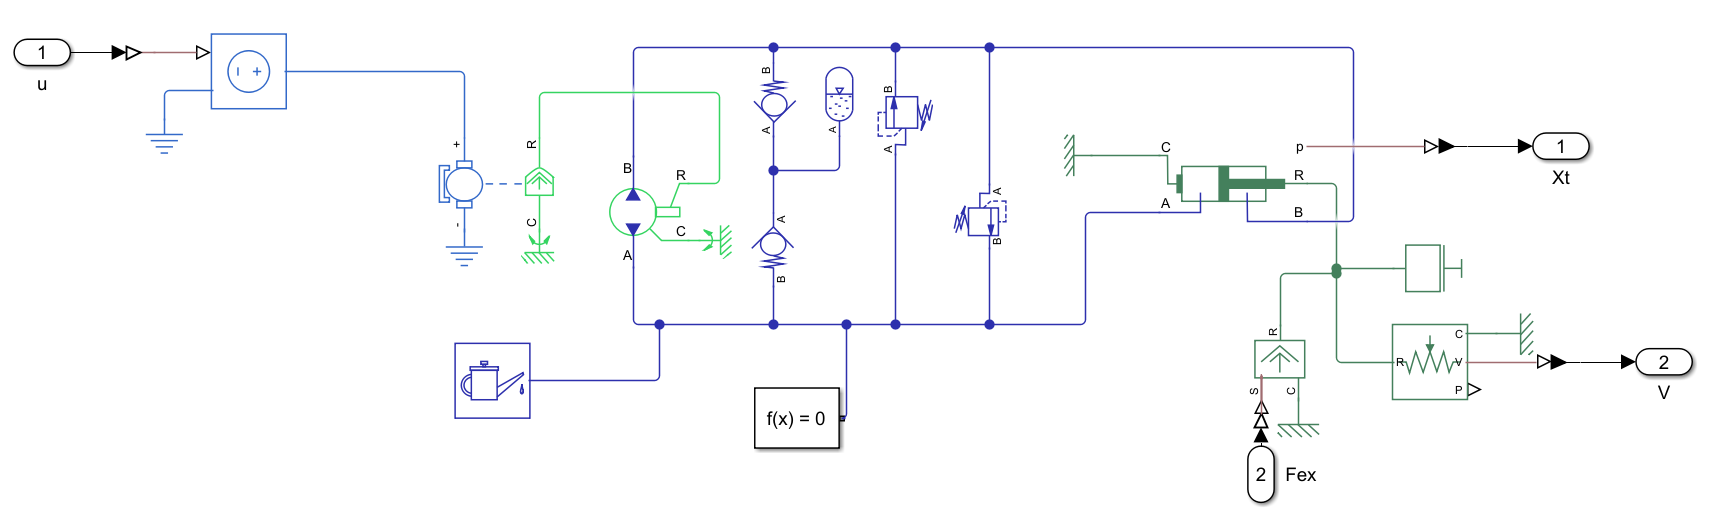
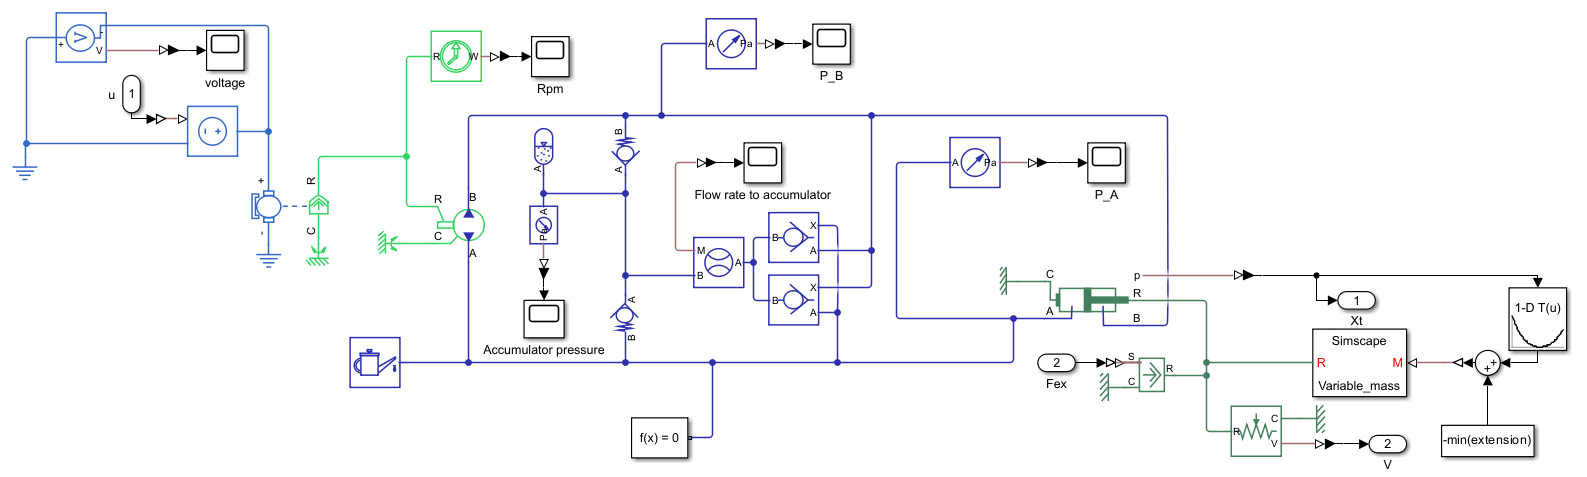
Fixed outdated equations and initialization parameters

diff --git a/Report/Report.tex b/Report/Report.tex
@@ -351,6 +351,8 @@
 		\label{fig:simulinkactuatormodel}
 	\end{figure}
 	
+	Considering the multitude of effects taken into account, the equations are expected to be stiff and \textit{ode15s} solver is used for that reason.
+	
 	\subsubsection{Motor Dynamics}
 	The DC Motor acts as the primary driver for the pump. The electrical and mechanical governing equations for the motor are expressed as follows:
 	\begin{equation}
@@ -363,50 +365,132 @@
 		T_{e} = K_{t}i
 	\end{equation}
 	\begin{equation}
-		T_{e} = J\dot{\omega} + T_{f} + T_{l}
+		T_{e} = J\dot{\omega} + \lambda\omega + T_{l}
 	\end{equation}
-	where $U_c$ is the command voltage, $i$ is the current, $E$ is the back electromotive force, $T_e$ is the electromagnetic torque, $\omega$ is the rotational speed, and $J$ represents the total inertia of the motor and pump.
+	where $U_c$ is the command voltage, $i$ is the current, $E$ is the back electromotive force, $T_e$ is the electromagnetic torque, $\omega$ is the rotational speed, $J$ represents the total inertia of the motor and pump, $\lambda$ is the viscous rotor damping coefficient, and $T_l$ is the load torque.
+	
+	\begin{figure}[H]
+		\centering
+		\includegraphics[width=0.6\linewidth]{Media/Simulink_DCmotor_model}
+		\caption{DC Motor model in Simulink. The voltage is taken from the controller and fed into the motor. The voltage sensor is connected in parallel to the voltage source.}
+		\label{fig:simulinkdcmotormodel}
+	\end{figure}
 	
 	\subsubsection{Pump Flow Equations}
-	The flow equations for the pump outlet ($Q_1$) and entry ($Q_2$) account for the pump displacement ($D$), internal leakage ($K_{ilp}$), and external leakage ($K_{elp}$) relative to the accumulator pressure ($P_{ac}$):
+	Unlike theoretical models that separate internal and external leakage to a case drain, the Simscape Isothermal Liquid pump block models a lumped analytical leakage flow based on the prescribed nominal operating parameters. The theoretical ideal volumetric flow ($Q_{ideal}$) is defined by the geometric displacement ($D$) and the rotational speed ($\omega$):
 	\begin{equation}
-		Q_{1} = D\omega - K_{ilp}(P_{1} - P_{2}) - K_{elp}(P_{1} - P_{ac})
-	\end{equation}
-	\begin{equation}
-		Q_{2} = D\omega - K_{ilp}(P_{1} - P_{2}) + K_{elp}(P_{2} - P_{ac})
+		Q_{ideal} = D\omega
 	\end{equation}
 	
-	\subsubsection{Refeeding Circuit and Accumulator}
-	To maintain the closed-circuit integrity of the EHA, a refeeding circuit comprising an accumulator and check valves is utilized. The accumulator pressure ($P_{ac}$) is modeled using a polytropic gas equation to account for fluid compression and expansion:
+	The volumetric leakage flow ($Q_{leak}$) is correlated with the pressure differential across the pump ($\Delta P = P_1 - P_2$) using an analytical Hagen-Poiseuille coefficient ($K$):
 	\begin{equation}
-		P_{ac} = \frac{P_{aci} V_{gasi}^k}{(V_{gasi} - \int Q_{ac} dt)^k}
+		Q_{leak} = K \Delta P
 	\end{equation}
-	where $P_{aci}$ is the initial accumulator pressure, $V_{gasi}$ is the initial gas volume, $k$ is the polytropic exponent, and $Q_{ac}$ is the net flow rate into the accumulator. The check valves manage the flow between the accumulator and the main hydraulic lines based on the pressure differentials $(P_1 - P_{ac})$ and $(P_2 - P_{ac})$.
+	
+	This coefficient is determined internally by the solver using the baseline volumetric efficiency ($\eta_v$) evaluated at the nominal pressure gain ($\Delta P_{nom}$) and nominal shaft speed ($\omega_{nom}$):
+	\begin{equation}
+		K = \frac{D \omega_{nom} (1 - \eta_v)}{\Delta P_{nom}}
+	\end{equation}
+	
+	Consequently, the actual flow equations for the pump outlet ($Q_1$) and entry ($Q_2$) in a standard forward-pumping mode are defined by subtracting the analytically derived leakage from the ideal flow:
+	\begin{equation}
+		Q_{1} = Q_{ideal} - Q_{leak}
+	\end{equation}
+	\begin{equation}
+		Q_{2} = Q_{ideal} - Q_{leak}
+	\end{equation}
+	
+	\begin{figure}[H]
+		\centering
+		\includegraphics[width=0.4\linewidth]{Media/Simulink_Pump_model}
+		\caption{Pump model in Simulink. The RPMs fed into the pump originate from the DC motor and are measured by a sensor.}
+		\label{fig:simulinkpumpmodel}
+	\end{figure}
+	
+	\subsubsection{Refeeding Circuit and Asymmetrical Flow Compensation}
+	Unlike a symmetrical actuator, the F-22's asymmetrical hydraulic jack requires a specialized refeeding circuit to handle unequal flow rates between the bore and annular chambers. When the actuator retracts, the return flow from the larger bore chamber exceeds the intake flow of the rod chamber, requiring a path to vent the excess fluid to prevent hydraulic lock. Conversely, extension requires make-up fluid from the reservoir to prevent cavitation.
+	
+	To manage this, the circuit integrates two distinct valve assemblies connected to the central accumulator line:
+	
+	\begin{enumerate}
+		\item \textbf{Anti-Cavitation Check Valves:} Two standard check valves connect the accumulator to the main hydraulic lines. They open automatically to supply make-up fluid if the pressure in either main line ($P_1$ or $P_2$) drops below the accumulator pressure ($P_{ac}$):
+		\begin{equation}
+			Q_{ac \to 1} = f(P_{ac} - P_1) \quad \text{for} \quad P_1 < P_{ac}
+		\end{equation}
+		\begin{equation}
+			Q_{ac \to 2} = f(P_{ac} - P_2) \quad \text{for} \quad P_2 < P_{ac}
+		\end{equation}
+		
+		\item \textbf{Pilot-Operated Venting Valves:} To dump excess fluid during unbalanced operations, two pilot-operated check valves are cross-connected to the main lines. The high-pressure supply line acts as the pilot signal to open the check valve on the low-pressure return line.
+		\begin{itemize}
+			\item When $P_2$ is pressurized (retraction), it pilots the top valve open, allowing excess return fluid from Chamber A to flow through the valve into the accumulator ($Q_{1 \to ac}$).
+			\item When $P_1$ is pressurized (extension), it pilots the bottom valve open, allowing fluid from Chamber B to flow into the accumulator ($Q_{2 \to ac}$).
+		\end{itemize}
+	\end{enumerate}
+	
+	\begin{figure}[H]
+		\centering
+		\includegraphics[width=0.6\linewidth]{Media/Simulink_Refeeding_accumulator_model}
+		\caption{Both pipes filled with the fluid coming from the pump are connected to the refeeding circuit and the accumulator. At first, both lines are connected to check vales which later connect to the accumulator whose pressure is monitored by a sensor. Later both lines are connected to pilot-operated check valves which dump the excess fluid into the accumulator. This flow rate is monitored by a sensor.}
+		\label{fig:simulinkrefeedingaccumulatormodel}
+	\end{figure}
+	
+	\subsubsection{Accumulator Dynamics}
+	The net flow into the accumulator ($Q_{ac\_net}$) is determined by the sum of the vented fluid from the pilot-operated valves minus the make-up fluid supplied through the standard check valves:
+	\begin{equation}
+		Q_{ac\_net} = Q_{1 \to ac} + Q_{2 \to ac} - Q_{ac \to 1} - Q_{ac \to 2}
+	\end{equation}
+	
+	The accumulator pressure ($P_{ac}$) dynamically responds to this net flow. It is modeled using a polytropic gas equation to account for fluid compression and expansion:
+	\begin{equation}
+		P_{ac} = \frac{P_{aci} V_{gasi}^k}{(V_{gasi} - \int Q_{ac\_net} dt)^k}
+	\end{equation}
+	where $P_{aci}$ is the initial accumulator pressure, $V_{gasi}$ is the initial gas volume, and $k$ is the polytropic exponent.
 	
 	\subsubsection{Chamber Flow Equations}
-	To connect the fluid flow from the pump to the pressure acting on the piston, the flow continuity equations for the two working chambers of the hydraulic jack must be established. These equations account for the actuator's linear velocity, fluid compressibility, and internal leakage across the piston:
+	To connect the fluid flow from the pump to the pressure acting on the piston, the flow continuity equations for the two working chambers of the hydraulic jack must be established. Because the selected actuator is asymmetrical, these equations account for the distinct bore area ($A_A$) and annular area ($A_B$), as well as fluid compressibility:
 	\begin{equation}
-		Q_{1f} = A\dot{x}_{t} + \frac{V_{10} + Ax_{t}}{B}\dot{P}_{1} + K_{ilj}(P_{1} - P_{2})
+		Q_{1f} = A_{A}\dot{x}_{t} + \frac{V_{10} + A_{A}x_{t}}{B}\dot{P}_{1} + Q_{leak}
 	\end{equation}
 	\begin{equation}
-		Q_{2f} = A\dot{x}_{t} - \frac{V_{20} - Ax_{t}}{B}\dot{P}_{2} + K_{ilj}(P_{1} - P_{2})
+		Q_{2f} = -A_{B}\dot{x}_{t} + \frac{V_{20} - A_{B}x_{t}}{B}\dot{P}_{2} - Q_{leak}
 	\end{equation}
-	where $Q_{1f}$ and $Q_{2f}$ are the flows into the respective chambers, $A$ is the active piston area, $x_{t}$ and $\dot{x}_{t}$ are the piston displacement and velocity, $V_{10}$ and $V_{20}$ are the initial chamber volumes, $B$ is the fluid bulk modulus, and $K_{ilj}$ is the internal leakage coefficient of the hydraulic jack.
+	where $Q_{1f}$ and $Q_{2f}$ are the flows into the respective chambers, $x_{t}$ and $\dot{x}_{t}$ are the piston displacement and velocity, $V_{10}$ and $V_{20}$ are the initial chamber volumes, and $B$ is the fluid bulk modulus (calculated dynamically based on the isothermal fluid properties). 
+	
+	Unlike simplified linear models, the internal leakage ($Q_{leak}$) across the piston is modeled dynamically by the solver using Laminar (Poiseuille) flow equations for concentric cylinders. This calculation is driven by the instantaneous pressure differential ($P_1 - P_2$), the fluid's kinematic viscosity, and the physical geometry of the piston-cylinder clearance ($c$) and piston head length ($L$).
 	
 	\subsubsection{Hydraulic Jack and Load Balance}
-	The EHA utilizes a symmetrical hydraulic jack to ensure proper flow balance between the actuator and the pump. The load force balance equation acting on the piston is defined by the pressure difference across the active area ($A$), the equivalent mass of the piston and load ($M$), the external aerodynamic load force ($F_{ex}$), and the system friction ($F_{fric}$):
+	
+	The load force balance equation acting on the piston must account for the asymmetrical design of the hydraulic cylinder and the structural boundaries of the stroke length. The net mechanical force is defined by the pressures acting on the bore area ($A_A$) and annular area ($A_B$). This net fluid force balances against the equivalent dynamic mass of the piston and load ($M_{eq}$), the external aerodynamic load force ($F_{ex}$), the system friction ($F_{fric}$), and the mechanical hard stop boundaries ($F_{HS}$):
 	\begin{equation}
-		A(P_{1} - P_{2}) = M\ddot{x}_{t} + F_{ex} + F_{fric}
+		P_{1}A_{A} - P_{2}A_{B} = M_{eq}\ddot{x}_{t} + F_{ex} + F_{fric} + F_{HS}
 		\label{eq:jack_eq}
 	\end{equation}
-	where $\ddot{x}_{t}$ represents the linear acceleration of the actuator.
+	where $\ddot{x}_{t}$ represents the linear acceleration of the actuator. 
+	
+	The hard stop force ($F_{HS}$) represents the nonlinear structural compliance at the extremes of the piston stroke (full extension or retraction). Modeled as a high-stiffness spring-damper system, $F_{HS} = 0$ during normal stroke operation but applies severe opposing force when the piston encroaches upon the predefined boundaries of the 163.61 mm stroke limit.
+	
+	\begin{figure}[H]
+		\centering
+		\includegraphics[width=1\linewidth]{Media/Simulink_jack_model}
+		\caption{Hydraulic jack model in Simulink. The set of blocks in the right part of the image represents the system accounting for the varying equivalent mass (see \nameref{sec:dynamicmass} section).}
+		\label{fig:simulinkjackmodel}
+	\end{figure}
 	
 	\subsubsection{Friction Model}
-	An accurate representation of friction is critical for predicting the dynamic performance of the actuator, particularly around zero velocity. A continuous Stribeck friction model is employed to avoid numerical discontinuities during simulation:
+	An accurate representation of friction is critical for predicting the dynamic performance of the actuator, particularly around zero velocity. The Simscape Double-Acting Actuator block models cylinder friction as a combination of Stribeck, Coulomb, and viscous effects. Crucially, the magnitude of the friction is not constant; it is calculated dynamically based on the instantaneous pressure difference between the cylinder chambers.
+	
+	To align with the empirical data derived from the KF-type seal performance graphs, the base Coulomb friction term is modeled as a function of the effective internal system pressure ($P_{sys}$):
 	\begin{equation}
-		F_{fric}(\dot{x}_{t}) = \left[ F_{c} + (F_{s} - F_{c}) \cdot e^{-|\dot{x}_{t}|/\alpha} + K_{vis}|\dot{x}_{t}| \right] \cdot \tanh\left(\frac{\dot{x}_{t}}{\beta}\right)
+		F_c(P_{sys}) = F_{pre} + C_{fc} \cdot P_{sys}
 	\end{equation}
-	where $F_c$ is the Coulomb friction, $F_s$ is the maximum static friction, $K_{vis}$ is the viscous friction coefficient, $\dot{x}_{t}$ is the piston velocity, and $\alpha$ and $\beta$ are reference speed parameters used to smooth the transitions near zero velocity.
+	where $F_{pre}$ is the zero-pressure preload force (the combined mechanical resistance of the seal and gland), and $C_{fc}$ is the Coulomb friction force coefficient representing the linear slope of the friction-to-pressure relationship.
+	
+	The total continuous friction force opposing the piston motion ($F_{fric}$) incorporates this pressure-dependent boundary into a smoothed Stribeck velocity transition model to avoid numerical discontinuities during simulation:
+	\begin{equation}
+		F_{fric}(\dot{x}_{t}, P_{sys}) = \left[ F_c(P_{sys}) + (F_s(P_{sys}) - F_c(P_{sys})) \cdot e^{-|\dot{x}_{t}|/\alpha} + K_{vis}|\dot{x}_{t}| \right] \cdot \tanh\left(\frac{\dot{x}_{t}}{\beta}\right)
+	\end{equation}
+	where $F_s(P_{sys})$ is the pressure-dependent maximum static friction, $K_{vis}$ is the viscous friction coefficient, $\dot{x}_{t}$ is the piston velocity, and $\alpha$ and $\beta$ are reference speed parameters used to govern the Stribeck transition and smooth the mathematical region near zero velocity.
 	
 	\subsection{Required actuator parameters}
 	
@@ -872,20 +956,16 @@
 		\item \textbf{Initialization ($P_{aci}$, $V_{gasi}$):} To initialize the simulation at a pre-pressurized, steady-state equilibrium, the initial accumulator pressure and initial gas volume were set to equal their respective nominal conditions ($P_{aci} = 20.7 \text{ MPa}$ and $V_{gasi} = 2.06 \times 10^{-3} \text{ m}^3$).
 	\end{itemize}
 	
-	\subsubsection{Valves}
+	\subsubsection{Valve Parameterization}
 	
-	The EHA model utilizes check valves for anti-cavitation fluid replenishment and a pressure relief valve (PRV) for structural protection. The valve parameters were defined to accommodate the high flow rates of the system while prioritizing numerical stability in the simulation solver.
+	The EHA model utilizes two types of valves within the refeeding circuit: standard check valves for anti-cavitation fluid replenishment, and pilot-operated check valves for asymmetrical flow venting. The parameters for both valve types were defined to accommodate the high flow rates of the system while prioritizing numerical stability in the Simscape solver.
 	
 	\begin{itemize}
-		\item \textbf{Pressure Relief Valve Settings ($P_{set}$, $P_{reg}$):} The PRV prevents catastrophic over-pressurization during severe aerodynamic loading or piston hard-stop impacts. To ensure it does not prematurely bleed flow during standard operation, the cracking pressure ($P_{set}$) was established with a standard 15\% safety margin above the 20.7 MPa nominal system pressure:
-		$$P_{set} = 20.7 \cdot 1.15 \approx 23.8 \text{ MPa}$$
-		The pressure regulation range ($P_{reg}$), representing the differential required to transition the valve from just cracked to fully open, was assigned a standard hydraulic spring rate of approximately 10\% of the set pressure ($2.4 \text{ MPa}$).
+		\item \textbf{Cracking and Opening Pressures:} The standard check valves must immediately route fluid from the accumulator to the suction side of the pump to prevent cavitation. Consequently, the cracking pressure was set to a near-zero nominal value ($0.01 \text{ MPa}$) with a rapid full-opening threshold ($0.1 \text{ MPa}$). Similarly, the pilot-operated check valves were configured with a maximum opening pressure differential of $0.1 \text{ MPa}$ and a nominal pilot ratio of $1$, ensuring highly responsive flow venting when triggered by the opposing main line pressure.
 		
-		\item \textbf{Check Valve Pressures ($P_{crack}$, $P_{omax}$):} The check valves must immediately route fluid from the accumulator to the suction side of the pump to prevent cavitation. Consequently, the cracking pressure was set to a near-zero nominal value ($0.01 \text{ MPa}$) with a rapid full-opening threshold ($0.1 \text{ MPa}$) to ensure uninhibited flow recovery.
+		\item \textbf{Maximum Opening Areas ($A_{max}$, $A_{omax}$):} Given the high maximum volumetric flow rate of the pump ($\approx 361 \text{ L/min}$), both valve types were assigned large maximum opening areas ($1 \times 10^{-3} \text{ m}^2$). This ensures the valves can dump or replenish fluid at maximum flow without choking the system as restrictive orifices. The closed-state leakage area was minimized to $1 \times 10^{-10} \text{ m}^2$.
 		
-		\item \textbf{Maximum Opening Areas ($A_{max}$, $A_{omax}$):} Given the high maximum volumetric flow rate of the pump ($\approx 361 \text{ L/min}$), both the PRV and the check valves were assigned large maximum opening areas ($1 \times 10^{-3} \text{ m}^2$). This ensures the valves can dump or replenish fluid at maximum flow without choking the system as restrictive orifices.
-		
-		\item \textbf{Numerical Stability Parameters ($F_{sm}$, $F_{psm}$):} Standard hydraulic orifice equations can introduce severe algebraic loops and zero-crossing errors in numerical solvers when valves rapidly switch states. To assist the simulation solver, the pressure-flow smoothing factors ($F_{sm}$, $F_{psm}$) were increased from their default to 0.05. Furthermore, higher-order dynamic phenomena, such as pressure recovery and opening dynamics, were disabled to isolate the macro-level kinematic response of the actuator.
+		\item \textbf{Flow and Numerical Stability Parameters:} Standard hydraulic orifice equations can introduce severe algebraic loops and zero-crossing errors in numerical solvers when valves rapidly switch states. To assist the simulation solver, the pressure-flow smoothing factors ($F_{sm}$, $F_{psm}$) were explicitly set to $0.01$. The flow was parameterized using a standard orifice discharge coefficient ($C_{d} = 0.64$) and a critical Reynolds number ($Re_{crit} = 150$) for the laminar-to-turbulent transition. Furthermore, higher-order phenomena, such as pressure recovery and valve opening dynamics, were disabled to isolate the macro-level kinematic response of the actuator and prevent high-frequency solver chatter.
 	\end{itemize}
 	
 	\subsubsection{Actuator}
@@ -919,7 +999,7 @@
 			\label{fig:glandfrictiongraph}
 		\end{figure}
 		
-		\item \textbf{Leakage and Hard Stops:} To capture volumetric losses across the piston head, the piston-cylinder clearance was set to a nominal $0.1 \text{ mm}$ ($1 \times 10^{-4} \text{ m}$) with a piston head length of $10 \text{ mm}$ ($0.01 \text{ m}$). The mechanical hard stops were initialized with a default high stiffness coefficient ($1 \times 10^{10} \text{ N/m}$) to represent rigid structural boundaries at the limits of the $0.1636 \text{ m}$ stroke.
+		\item \textbf{Leakage and Hard Stops:} To capture volumetric losses across the piston head, the piston-cylinder clearance was set to $0.02 \text{ mm}$ ($2 \times 10^{-5} \text{ m}$) with a piston head length of $10 \text{ mm}$ ($0.01 \text{ m}$). The mechanical hard stops were initialized with a default high stiffness coefficient ($1 \times 10^{10} \text{ N/m}$) to represent rigid structural boundaries at the limits of the $0.1636 \text{ m}$ stroke.
 		
 		\item \textbf{Initial Conditions ($P_A$, $P_B$, $d_{ini}$):} To ensure the simulation initializes at a stable, steady-state equilibrium without transient startup shock, the pressures in Chambers A and B were balanced against the nominal system pressure ($P_{acnom} = 20.7 \text{ MPa}$). By setting $P_B = P_{acnom}$, the opposing pressure in Chamber A required to achieve a net-zero force ($F_{net} = P_A A_A - P_B A_B = 0$) is calculated as:
 		$$P_A = P_{acnom} \cdot \frac{A_B}{A_A}$$
@@ -927,6 +1007,7 @@
 	\end{itemize}
 
 	\subsubsection{Dynamic Mass}
+	\label{sec:dynamicmass}
 	
 	While static aerodynamic loads ($F_{ex}$) dictate the steady-state holding force required by the actuator, the dynamic control simulation must account for the inertial resistance of the stabilator during high-speed maneuvering. The force balance equation for the hydraulic jack (Equation \ref{eq:jack_eq}) includes the inertial term $M\ddot{x}_t$. To evaluate this properly, the rotational inertia of the stabilator must be reflected onto the linear axis of the actuator to define the equivalent linear mass ($M_{eq}$).
 	
@@ -999,32 +1080,31 @@
 		
 	\subsection{Noise Setup According to Sensor}
 	
-	To accurately simulate the physical characteristics of the feedback loop, the measurement noise was modeled directly from the hardware specifications of the Balluff position sensor. According to the manufacturer data sheet \autocite{parker2hx3hx}, the digital PWM output features a minimum update rate of 0.5\,ms and a position repeatability of 2\,$\mu$m. To replicate this behavior within the Simulink environment, a Band-Limited White Noise block was implemented. The sample time ($T_s$) was strictly set to 0.0005\,s to match the hardware's digital update frequency. To achieve the corresponding physical noise amplitude (a standard deviation of $\sigma = 2 \times 10^{-6}$\,m), the required noise power was calculated using the relation $\text{Noise Power} = \sigma^2 \cdot T_s$. Consequently, the noise power parameter was configured to $2 \times 10^{-15}$. This exact parameterization ensures that the controller's derivative and filter terms are evaluated against realistic hardware signal jitter rather than arbitrary simulation noise.
+	To accurately simulate the physical characteristics of the feedback loop, the measurement noise was modeled directly from the hardware specifications of the Balluff position sensor. According to the manufacturer data sheet \autocite{parker2hx3hx}, the digital PWM output features a minimum update rate of 0.5\,ms and a position repeatability of 2\,$\mu$m. To replicate this behavior within the Simulink environment, a Band-Limited White Noise block was implemented. The sample time ($T_s$) was strictly set to 0.0005\,s to match the hardware's digital update frequency. To achieve the corresponding physical noise amplitude (a standard deviation of $\sigma = 2 \times 10^{-6}$\,m), the required noise power was calculated using the relation $\text{Noise Power} = \sigma^2 \cdot T_s$. Consequently, the noise power parameter was configured to $2 \times 10^{-15}$. This exact parametrization ensures that the controller's derivative and filter terms are evaluated against realistic hardware signal jitter rather than arbitrary simulation noise.
 	
 	\subsection{PID tuning}
-	Initial attempts to utilize the automated Simulink PID Tuner app resulted in failed linearizations, with the software proposing absurdly high, unstable controller gains in the millions. These automated values were discarded, as they failed to account for the physical saturation limits and non-linear dynamics of the actuator model. Following the implementation of the accurate Balluff sensor noise profile, a rigorous manual tuning methodology was employed to bring the system under control. The final, successful operational gains were manually tuned and locked in at $P = 100{,}000$, $I = 50{,}000$, and $D = 20{,}000$, utilizing an active filtered derivative with a coefficient of $N = 1$. These manually derived parameters successfully stabilized the stabilator and met the required design criteria, proving significantly more viable than the software's initial estimations.
-	\newpage
-	    \textbf{Control requirements}
-	     \begin{table}[H]
-	     	\centering
-	     	\begin{tabular}{lcp{7cm}}
-	     		\hline
-	     		\textbf{Parameter} & \textbf{Requirement} & \textbf{Justification} \\
-	     		\hline
-	     		Overshoot & $\leq 5\%$ & At high velocities, excessive deflection beyond the commanded angle generates large aerodynamic loads, risking structural overload and loss of control. \\
-	     		\addlinespace
-	     		Settling Time & $\leq 1$ s & The flight control system must respond quickly to pilot inputs to maintain 
-	     		stability, particularly at 450 m/s where the aircraft dynamics are fast.The 1 s settling time ensures the pilot retains meaningful control before the aircraft has travelled too far. \\
-	     		\addlinespace
-	     	    Steady-State Error & $\leq 0.2^\circ$ & An absolute angle is required because percentage based limits allow larger, unacceptable errors during wide maneuvers. Keeping the error around $0.2^\circ$ stops the tail from catching excess air at 450 m/s, preventing fuel wasting drag and autopilot drift. \\
-	     		\hline
-	     	\end{tabular}
-	     	\caption{PID control performance requirements}
-	     	\label{tab:pid_requirements}
-	     \end{table}
-	     
-	     To verify the performance of the manually tuned PID controller ($P = 100{,}000$, $I = 50{,}000$, $D = 20{,}000$, $N = 1$), the system was evaluated against a $-20^\circ$ target deflection. The simulated response demonstrated exceptional tracking capabilities, achieving a settling time of exactly $0.34$\,s, which falls well within the strict $1.0$\,s maximum requirement. Furthermore, the transient response exhibited a near-zero overshoot of only $0.1^\circ$, easily satisfying the sub-$5\%$ constraint, while the final steady-state error stabilized at a minimal $0.2^\circ$. These final metrics confirm that the control architecture successfully manages the simulated hardware constraints and aerodynamic loads, strictly satisfying all defined design requirements for the stabilator system.
-
+	
+	\begin{table}[H]
+	\centering
+		\begin{tabular}{lcp{7cm}}
+	    	\hline
+	    	\textbf{Parameter} & \textbf{Requirement} & \textbf{Justification} \\
+	    		\hline
+	    		Overshoot & $\leq 5\%$ & At high velocities, excessive deflection beyond the commanded angle generates large aerodynamic loads, risking structural overload and loss of control. \\
+	    		\addlinespace
+	    		Settling Time & $\leq 1$ s & The flight control system must respond quickly to pilot inputs to maintain 
+	    		stability, particularly at 450 m/s where the aircraft dynamics are fast.The 1 s settling time ensures the pilot retains meaningful control before the aircraft has travelled too far. \\
+	    		\addlinespace
+	    		Steady-State Error & $\leq 0.2^\circ$ & An absolute angle is required because percentage based limits allow larger, unacceptable errors during wide maneuvers. Keeping the error around $0.2^\circ$ stops the tail from catching excess air at 450 m/s, preventing fuel wasting drag and autopilot drift. \\
+	    		\hline
+	    \end{tabular}
+	    \caption{PID control performance requirements}
+	    \label{tab:pid_requirements}
+	\end{table}
+	
+	Initial attempts to utilize the automated Simulink PID Tuner app resulted in failed linearizations, with the software proposing absurdly high, unstable controller gains in the millions. These automated values were discarded, as they failed to account for the physical saturation limits and non-linear dynamics of the actuator model. Following the implementation of the accurate Balluff sensor noise profile, a rigorous manual tuning methodology was employed to bring the system under control. The final, successful operational gains were manually tuned and locked in at $P = 100{,}000$, $I = 50{,}000$, and $D = 20{,}000$, utilizing an active filtered derivative with a coefficient of $N = 1$. Integrator saturation was set to $\pm30$ to prevent the I term from creating excessive overshoot while still allowing it to drive the actual signal toward the commanded one in steady state. Overall output saturation was set to $\pm350$ since it corresponds to the standard $\pm350 \text{V}$ operating range of a DC bus.
+	
+	To verify the performance of the manually tuned PID controller ($P = 100{,}000$, $I = 50{,}000$, $D = 20{,}000$, $N = 1$), the system was evaluated against a $-20^\circ$ target deflection. The simulated response demonstrated exceptional tracking capabilities, achieving a settling time of exactly $0.34$\,s for the deflection of $-20^\circ$, which falls well within the strict $1.0$\,s maximum requirement. Furthermore, the transient response exhibited a near-zero overshoot of only $0.1^\circ$, easily satisfying the sub-$5\%$ constraint, while the final steady-state error stabilized at a minimal $0.2^\circ$. These final metrics confirm that the control architecture successfully manages the simulated hardware constraints and aerodynamic loads, strictly satisfying all defined design requirements for the stabilator system.
 	
 	\section{System Overview}
 	
@@ -1066,15 +1146,26 @@
 	\path{Requirements_calculation.m} is a separate function used solely to derive the theoretical actuator requirements and and neither it nor \path{plot_data.m} is executed within the callback.
 	
 	\path{Variable_mass.ssc} defines a custom Variable Mass block which was not provided by Simulink/Simscape.
+
+	\subsection{Key operation principle}
+	
+	\begin{figure}[H]
+		\centering
+		\includegraphics[width=1\linewidth]{Media/Simulink_complete_model}
+		\caption{}
+		\label{fig:simulinkcompletemodel}
+	\end{figure}
+	
+	\begin{figure}[H]
+		\centering
+		\includegraphics[width=1\linewidth]{Media/Simulink_deflection_scope}
+		\caption{}
+		\label{fig:simulinkdeflectionscope}
+	\end{figure}
+	
 	\section{Conclusion}
 	
 	\newpage
 	\printbibliography
-	\newpage
-	\appendix
-	\section{Any MATLAB file}
 	
-	\begin{lstlisting}[style=myMatlabStyle]
-	MATLAB code goes here
-	\end{lstlisting}
 \end{document}